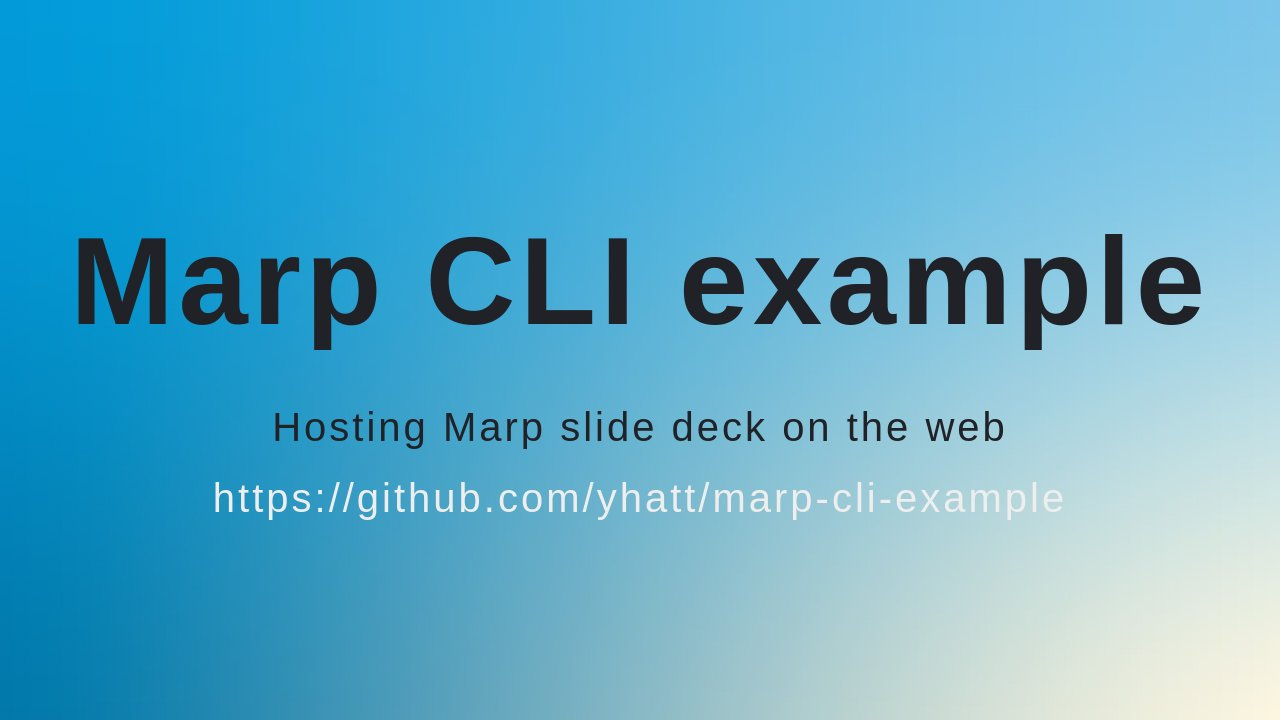
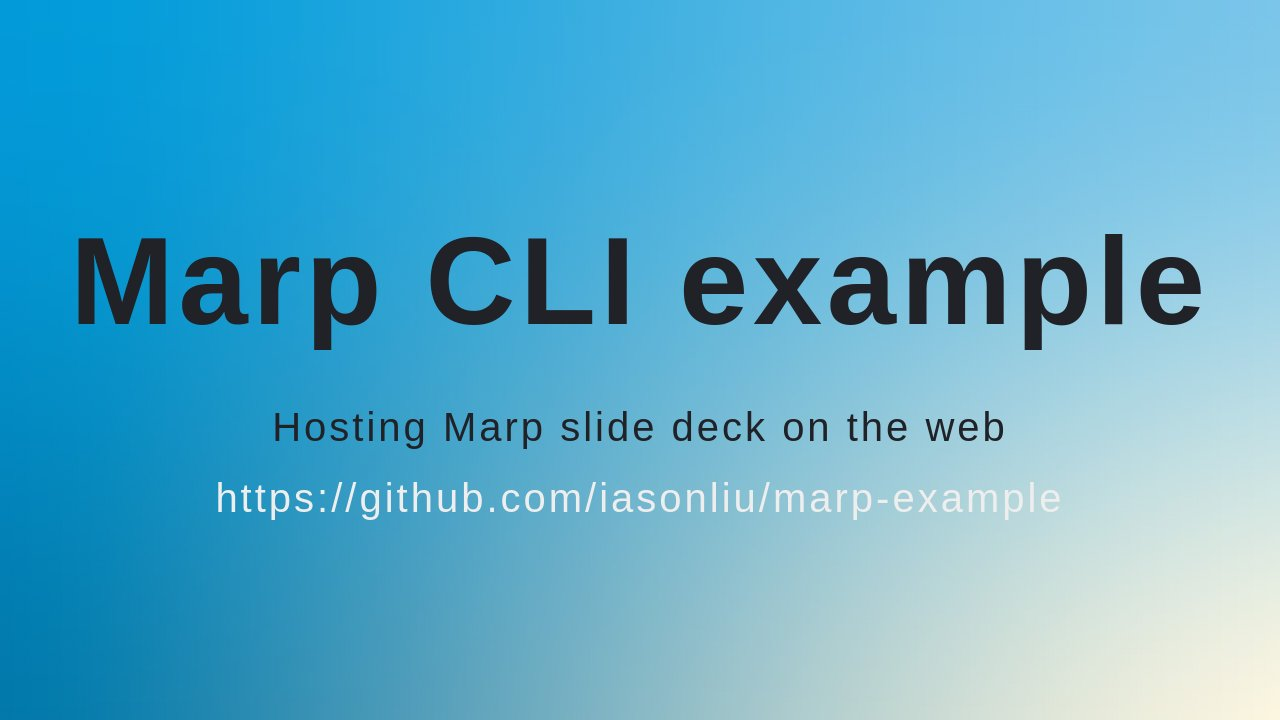
Deploying to gh-pages from  @ 9cbc24bd422cb65b9c9529fdc97f0d7c51910e09 🚀

Changed region(s): [[0.1562, 0.6722, 0.8438, 0.7333]]

diff --git a/index.html b/index.html
@@ -8,10 +8,10 @@
  * @auto-scaling fittingHeader,math
  * @size 16:9 1280px 720px
  * @size 4:3 960px 720px
[2 lines of base64/hex data omitted]
 <h1><svg data-marp-fitting="svg"><foreignObject><span data-marp-fitting-svg-content> Marp CLI example</span></foreignObject></svg></h1>
 <p>Hosting Marp slide deck on the web</p>
-<p><a href="https://github.com/yhatt/marp-cli-example">https://github.com/yhatt/marp-cli-example</a></p>
+<p><a href="https://github.com/iasonliu/marp-example">https://github.com/iasonliu/marp-example</a></p>
 </section>
 </foreignObject><foreignObject width="1280" height="720" data-marpit-advanced-background="pseudo"><section style="" data-marpit-advanced-background="pseudo"></section></foreignObject></svg><svg data-marpit-svg="" viewBox="0 0 1280 720"><foreignObject width="1280" height="720"><section data-paginate="true" data-theme="uncover" data-marpit-pagination="2" data-marpit-pagination-total="8" style="--paginate:true;--theme:uncover;" data-marpit-advanced-background="background"><div data-marpit-advanced-background-container="true" data-marpit-advanced-background-direction="horizontal"><figure style="background-image:url(&quot;https://raw.githubusercontent.com/marp-team/marp/master/marp.png&quot;);background-size:60%;"></figure></div></section></foreignObject><foreignObject width="1280" height="720"><section id="2" data-paginate="true" data-theme="uncover" data-marpit-pagination="2" data-marpit-pagination-total="8" style="--paginate:true;--theme:uncover;" data-marpit-advanced-background="content"></section>
 </foreignObject><foreignObject width="1280" height="720" data-marpit-advanced-background="pseudo"><section style="" data-marpit-advanced-background="pseudo" data-marpit-pagination="2" data-marpit-pagination-total="8"></section></foreignObject></svg><svg data-marpit-svg="" viewBox="0 0 1280 720"><foreignObject width="1280" height="720"><section id="3" data-paginate="true" data-theme="uncover" data-background-color="#123" data-color="#fff" data-marpit-pagination="3" data-marpit-pagination-total="8" style="--paginate:true;--theme:uncover;--background-color:#123;--color:#fff;color:#fff;background-color:#123;background-image:none;">
